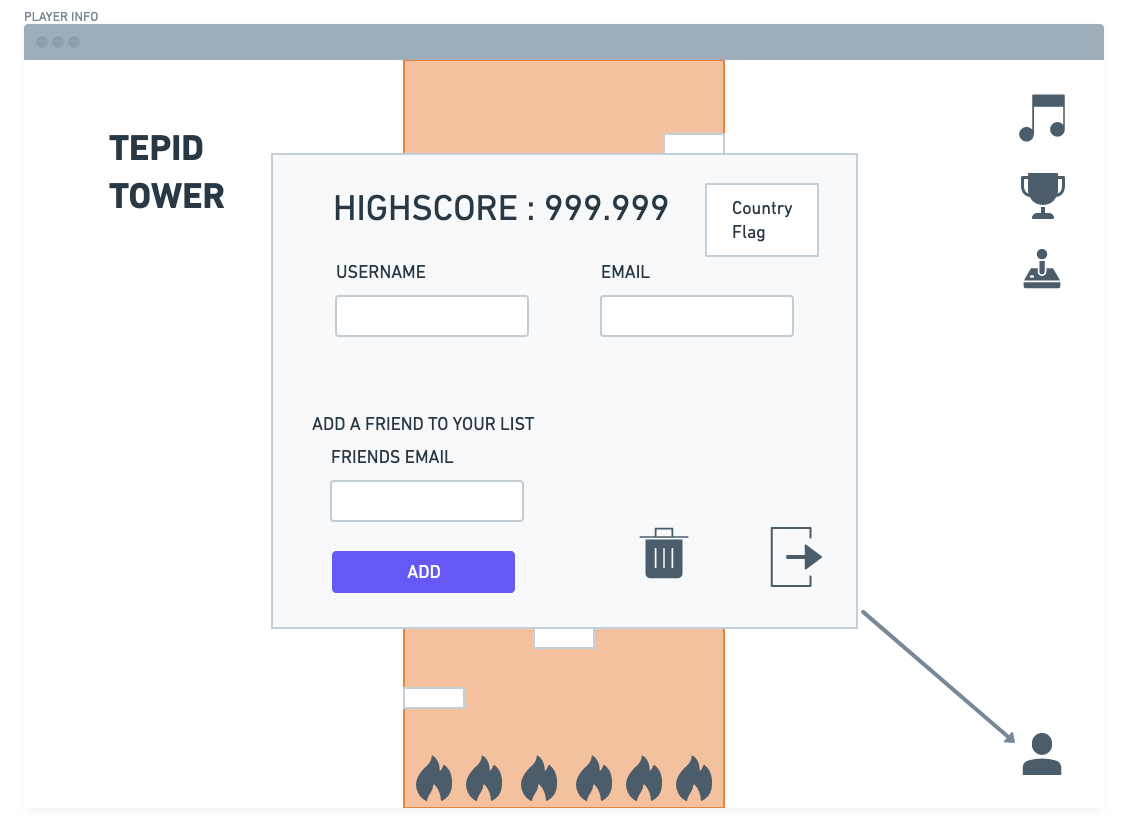
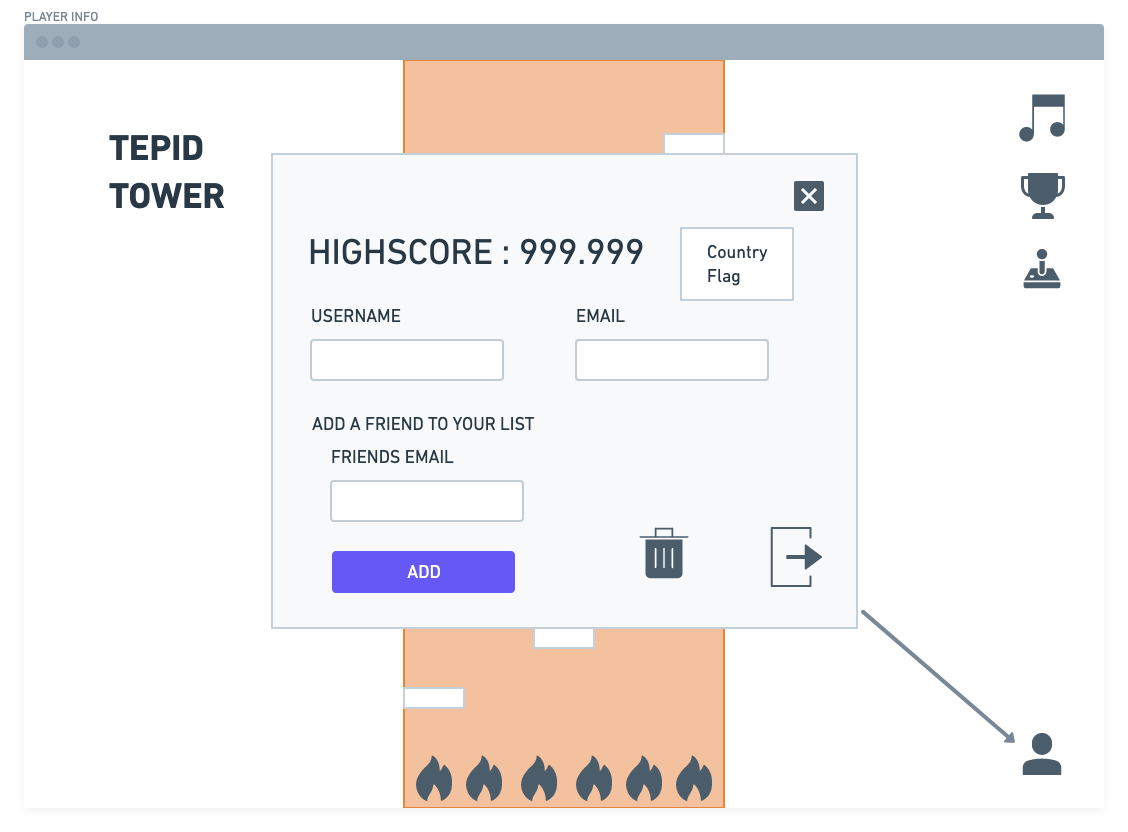
updates wireframe after Teri's feedback

Changed region(s): [[0.2482, 0.2188, 0.5895, 0.4062], [0.5895, 0.2188, 0.7447, 0.4062], [0.6516, 0.4062, 0.6826, 0.4688]]

diff --git a/README.md b/README.md
@@ -1,4 +1,4 @@
-<!-- # <img src="https://cloud.githubusercontent.com/assets/7833470/10899314/63829980-8188-11e5-8cdd-4ded5bcb6e36.png" height="60">  -->
+
 # Project 3 - Capstone Project - TEPID TOWER
 
 INSPIRED BY ICY TOWER
@@ -51,7 +51,10 @@ What are you planning to build? What do you reasonably think you can implement i
 
 * The player's info card will pop pup with their username, email and country
 
-* There the player will be able to add friends by typing their email
+    * username and email are both editable by typing in the input box
+
+    * The player will also be able to add friends by typing their email in the "add friend" input
+
 * Player will also be able to log out or delete their account by clicking the respective icons on the bottom right of the pop up
 
 ## **WIREFRAMES** 
